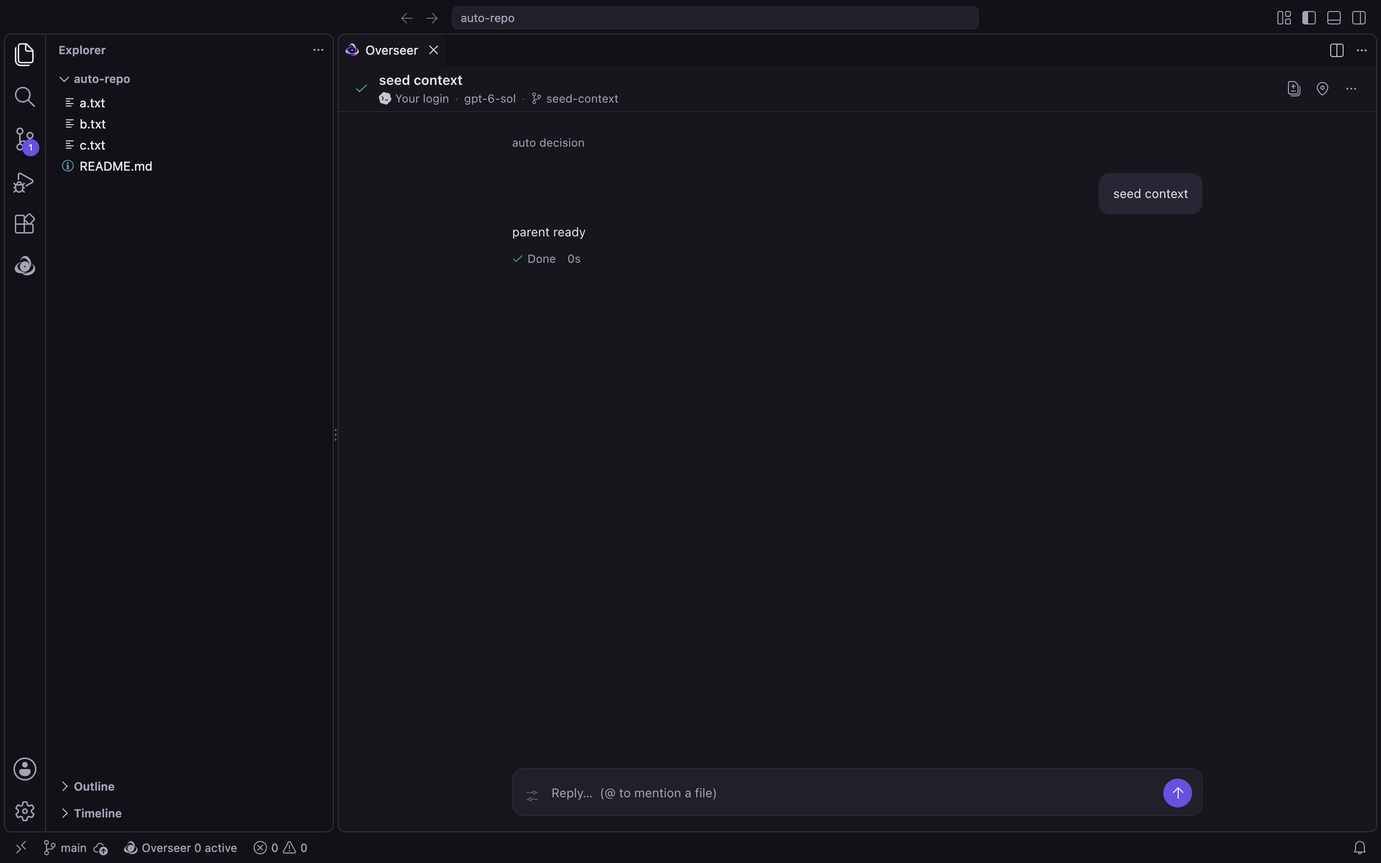
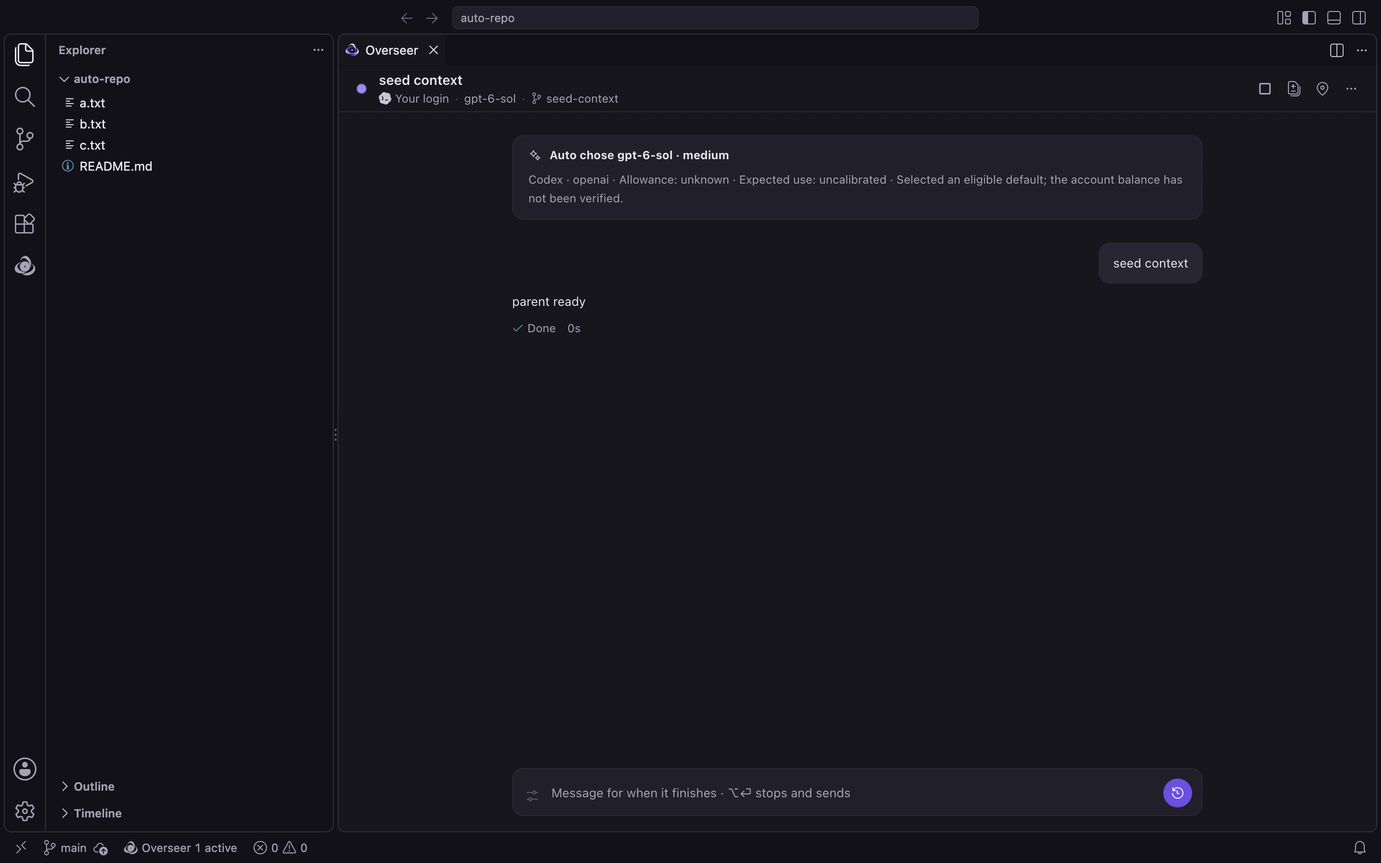
feat(auto): explain route choices in packaged chat

diff --git a/test/ui/scenario-auto-root.js b/test/ui/scenario-auto-root.js
@@ -15,16 +15,18 @@ const { Session, makeRepo, latestVsix, delay, repoRoot } = require('./harness');
   const sys = path.join(s.root, 'desktop-home');
   const next = path.join(s.root, 'next-login');
   const trace = path.join(s.root, 'app-server-trace.txt');
+  const quota = path.join(s.root, 'quota-mode.txt');
   fs.mkdirSync(sys, { recursive: true });
   fs.writeFileSync(next, 'auto-fixture:pro');
+  fs.writeFileSync(quota, 'unknown');
   cp.execFileSync(cli, ['login'], { env: { ...process.env, OVERSEER_TEST_SYSTEM_HOME: sys, FIXTURE_LOGIN_ACCOUNT_FILE: next } });
   try {
     const repo = makeRepo(path.join(s.root, 'auto-repo'), { dirty: false });
     s.settings({ 'workbench.colorTheme': 'Overseer Dark' });
     s.install(latestVsix());
     s.launch(repo, { OVERSEER_CODEX_PATH: app, OVERSEER_CLAUDE_PATH: '/nonexistent/claude', OVERSEER_OPENCODE_PATH: '/nonexistent/opencode',
-      OVERSEER_TEST_SYSTEM_HOME: sys, FIXTURE_MODE: 'managed-models', FIXTURE_TRACE_FILE: trace,
-      OVERSEER_HARNESS_ENV_PASSTHROUGH: 'FIXTURE_MODE,FIXTURE_TRACE_FILE,OVERSEER_TEST_SYSTEM_HOME' });
+      OVERSEER_TEST_SYSTEM_HOME: sys, FIXTURE_MODE: 'managed-models', FIXTURE_TRACE_FILE: trace, FIXTURE_QUOTA_MODE_FILE: quota,
+      OVERSEER_HARNESS_ENV_PASSTHROUGH: 'FIXTURE_MODE,FIXTURE_TRACE_FILE,FIXTURE_QUOTA_MODE_FILE,OVERSEER_TEST_SYSTEM_HOME' });
     let cdp = await s.connect();
     await cdp.waitFor(`[...document.querySelectorAll('.statusbar-item')].some(e => /Overseer \\d+ active/.test(e.textContent))`, 60000, 'status bar');
     check('Auto gate is off before an explicit UI choice', s.ctl('auto.mode.get').enabled === false);
@@ -59,6 +61,10 @@ const { Session, makeRepo, latestVsix, delay, repoRoot } = require('./harness');
       { run: root.id, status: root.status, model: root.model, effort: root.effort, selected, output });
     const shown = await dash.waitFor(`document.body.dataset.mode === 'chat' && document.getElementById('title')?.textContent === 'seed context'`, 20000).then(() => true, () => false);
     check('the selected Auto run opens in the same chat surface as a manual run', shown);
+    const decisionCard = await dash.eval(`document.querySelector('.auto-decision')?.textContent || ''`);
+    check('the chat explains the selected model, effort, allowance, and expected-use uncertainty',
+      /gpt-6-sol/.test(decisionCard) && /medium/.test(decisionCard) && /Allowance: unknown/.test(decisionCard) && /Expected use: uncalibrated/.test(decisionCard),
+      decisionCard);
     await s.screenshot('auto-root-chat');
     // Leaving a webview textarea focused can swallow the command-palette shortcut.
     const statusPoint = await cdp.evalWorkbench(`(() => { const r = document.querySelector('.part.statusbar').getBoundingClientRect(); return { x: r.left + r.width / 2, y: r.top + r.height / 2 }; })()`);
@@ -92,10 +98,22 @@ const { Session, makeRepo, latestVsix, delay, repoRoot } = require('./harness');
       childModels.includes('gpt-6-sol/medium') && childModels.includes('gpt-6-astra/high') &&
       /browser result: parent context found/.test(parentOutput) && /continued with browser result/.test(parentOutput),
       { parent: parent.id, status: parent.status, children: children.map(r => ({ id: r.id, model: r.model, effort: r.effort, status: r.status })), output: parentOutput });
+    await dash.waitFor(`document.querySelectorAll('.auto-decision').length >= 3`, 10000);
+    const childDecisionCards = await dash.eval(`[...document.querySelectorAll('.auto-decision')].map(e => e.textContent)`);
+    check('the parent chat records both child route choices and their uncertainty',
+      childDecisionCards.some(t => /gpt-6-sol/.test(t) && /medium/.test(t) && /Expected use: uncalibrated/.test(t)) &&
+      childDecisionCards.some(t => /gpt-6-astra/.test(t) && /high/.test(t) && /Expected use: uncalibrated/.test(t)), childDecisionCards);
+    const excludedDetail = await dash.eval(`[...document.querySelectorAll('.auto-decision')].find(e => /gpt-6-astra/.test(e.textContent))?.querySelector('details')?.textContent || ''`);
+    check('the diagnosis explanation identifies why another route was excluded',
+      /gpt-6-sol/.test(excludedDetail) && /capability/i.test(excludedDetail), excludedDetail);
     await s.screenshot('auto-delegation');
     await cdp.command('Developer: Reload Window'); await delay(6000);
     cdp = await s.connect(); s.cdp = cdp;
     dash = await s.editorView();
+    await dash.waitFor(`document.querySelectorAll('.auto-decision').length >= ${childDecisionCards.length}`, 20000);
+    const reloadedCards = await dash.eval(`[...document.querySelectorAll('.auto-decision')].map(e => e.textContent)`);
+    check('window reload restores the same child decision history', reloadedCards.length === childDecisionCards.length &&
+      reloadedCards.every((text, i) => text === childDecisionCards[i]), reloadedCards);
     const after = s.ctl('state').runs.filter(r => !r.parent_run_id && r.title === 'seed context');
     await cdp.command('Overseer: New Agent');
     await dash.waitFor(`document.body.dataset.mode === 'composer' && !document.querySelector('[data-chip="repo"]').textContent.includes('Loading')`, 20000);
@@ -103,6 +121,18 @@ const { Session, makeRepo, latestVsix, delay, repoRoot } = require('./harness');
     check('window reload keeps the original Auto run and remembers Auto as the next choice', after.length === 1 && after[0].id === root.id && /Auto routing/.test(remembered),
       { runs: after.map(r => r.id), remembered });
     await s.screenshot('auto-remembered');
+    fs.writeFileSync(quota, 'exhausted');
+    const exhaustedPoint = await s.webviewPoint(dash, '#task');
+    await cdp.click(exhaustedPoint.x, exhaustedPoint.y); await cdp.type('quota exhausted fixture');
+    await dash.waitFor(`!document.getElementById('start').disabled`, 5000);
+    await cdp.key('Enter');
+    await dash.waitFor(`[...document.querySelectorAll('.composer-note')].some(e => e.textContent.includes('allowance is exhausted'))`, 20000);
+    const paused = await dash.eval(`[...document.querySelectorAll('.composer-note')].map(e => e.textContent).find(t => t.includes('allowance is exhausted')) || ''`);
+    const launchedOnExhaustion = s.ctl('state').runs.filter(r => !r.parent_run_id && r.title === 'quota exhausted fixture');
+    check('the packaged Auto composer explains known exhaustion and launches no root',
+      /allowance is exhausted/.test(paused) && launchedOnExhaustion.length === 0,
+      { message: paused, launched: launchedOnExhaustion.map(r => r.id) });
+    await s.screenshot('auto-exhausted');
   } catch (error) {
     s.note('ERROR ' + (error.stack || error.message)); result.error = error.message;
     try { await s.screenshot('error'); } catch {}

diff --git a/extension/media/conversation.js b/extension/media/conversation.js
@@ -270,12 +270,64 @@
       if (this.active) this.list.after(this.working);
     }
 
+    autoDecision(p, ev) {
+      const decision = p.decision || {};
+      const route = p.selected_route || (p.selection_input?.routes || []).find(r => r.id === decision.selected);
+      const card = el('div', 'auto-decision');
+      const head = el('div', 'auto-decision-head');
+      head.append(ui.icon(route ? 'sparkle' : 'warning', 'sm'),
+        el('strong', null, route ? `Auto chose ${route.model || 'a model'} · ${route.effort || 'default effort'}` : 'Auto paused'));
+      card.append(head);
+      const details = [];
+      if (route) {
+        const harness = { 'codex-app': 'Codex', claude: 'Claude Code', opencode: 'OpenCode' }[route.harness] || route.harness;
+        details.push(`${harness || 'Agent'}${route.provider ? ` · ${route.provider}` : ''}`);
+        const quota = { observed_non_exhausted: 'reported available', not_applicable: 'not applicable for this local route', exhausted: 'exhausted', unknown: 'unknown' }[route.quota] || 'unknown';
+        details.push(`Allowance: ${quota}`);
+        const fit = { fits: 'bounded estimate fits', unaffordable: 'estimated draw exceeds allowance', unknown: 'uncalibrated' }[route.fit] || 'uncalibrated';
+        details.push(`Expected use: ${fit}`);
+      }
+      const reasons = {
+        cold_start_allowance_unknown: 'Selected an eligible default; the account balance has not been verified.',
+        cold_start_consumption_unknown: 'Selected an eligible default; expected subscription use is not yet calibrated.',
+        eligible_task_suitable_default: 'Selected for the work unit’s capability and account constraints.',
+        no_eligible_route: 'No route met the current account, capability, and availability constraints.'
+      };
+      if (reasons[decision.reason]) details.push(reasons[decision.reason]);
+      card.append(el('div', 'auto-decision-detail', details.join(' · ')));
+      const excluded = Array.isArray(decision.exclusions) ? decision.exclusions : [];
+      if (excluded.length) {
+        const why = {
+          pinned_elsewhere: 'a different route was pinned', account_not_allowed: 'account not allowed',
+          route_unavailable: 'service unavailable', unresolved_quota_pool_identity: 'shared account allowance could not be verified',
+          quota_exhausted: 'account allowance exhausted', pool_in_flight_unknown_draw: 'account already has an active Auto unit',
+          estimated_draw_exceeds_allowance: 'expected use exceeds available allowance',
+          insufficient_capability: 'below the required capability', missing_tool: 'required tool unavailable',
+          context_unavailable: 'required context unavailable', approvals_unsupported: 'required approvals unsupported',
+          sandbox_incompatible: 'requested permissions unsupported'
+        };
+        const alternatives = el('details', 'auto-decision-alternatives');
+        alternatives.append(el('summary', null, `${excluded.length} alternative${excluded.length === 1 ? '' : 's'} excluded`));
+        const list = el('ul');
+        for (const item of excluded.slice(0, 8)) {
+          const candidate = (p.selection_input?.routes || []).find(r => r.id === item.route_id);
+          const label = candidate?.model ? `${candidate.model}${candidate.effort ? ` · ${candidate.effort}` : ''}` : 'Another route';
+          list.append(el('li', null, `${label}: ${why[item.reason] || 'not eligible for this work unit'}`));
+        }
+        if (excluded.length > 8) list.append(el('li', null, `${excluded.length - 8} more alternatives`));
+        alternatives.append(list);
+        card.append(alternatives);
+      }
+      this.container(ev).append(card);
+    }
+
     add(ev) {
       if (this.seen.has(ev.seq)) return;
       this.seen.add(ev.seq);
       const p = ev.payload || {};
       const child = ev.run_id && ev.run_id !== this.rootId;
       switch (ev.kind) {
+        case 'auto_decision': this.autoDecision(p, ev); break;
         case 'turn_started': if (!child) { this.stopping = false; this.newTurn(p.turn || { n: this.turns.length + 1, prompt: '' }, false, ev); this.active = true; this.updateWorking('Working…'); } break;
         case 'interrupt_requested': if (!child) this.stopping = true; break;
         case 'output': {
@@ -467,7 +519,7 @@
       card.el.replaceChildren(...kids);
     }
   }
-  Conversation.KNOWN = new Set(['turn_started', 'output', 'tool', 'tool_result', 'file_activity', 'permission', 'permission_answered', 'error', 'child', 'child_reparented', 'turn_done', 'retention', 'raw_unparsed']);
+  Conversation.KNOWN = new Set(['auto_decision', 'turn_started', 'output', 'tool', 'tool_result', 'file_activity', 'permission', 'permission_answered', 'error', 'child', 'child_reparented', 'turn_done', 'retention', 'raw_unparsed']);
   Conversation.describe = describe;
 
   window.OverseerConversation = Conversation;

diff --git a/test/ui/cdp.js b/test/ui/cdp.js
@@ -159,7 +159,9 @@ class Cdp {
     for (let attempt = 0; ; attempt++) {
       await this.focusWorkbench();
       await this.key('p', { meta: true, shift: true });
-      try { await this.waitFor('!!document.querySelector(".quick-input-widget:not([style*=\\"display: none\\"]) input")', 5000, 'command palette'); break; }
+      try { await this.waitFor(`(() => { const input = document.querySelector('.quick-input-widget input');
+        return !!input && input === document.activeElement && input.getClientRects().length > 0;
+      })()`, 5000, 'focused command palette'); break; }
       catch (error) {
         if (attempt >= 1) throw error;
         // Keyboard focus can stay inside a webview's own frame; click a neutral workbench spot.
@@ -168,8 +170,18 @@ class Cdp {
       }
     }
     await this.type(title);
-    await delay(400);
-    await this.key('Enter');
+    // The palette can still show a previous search while it computes the new
+    // results. Wait for and choose the requested row, rather than pressing
+    // Enter on whichever stale item happens to be selected first.
+    const name = title.includes(':') ? title.slice(title.indexOf(':') + 1).trim() : title;
+    const row = await this.waitFor(`(() => { const w = document.querySelector('.quick-input-widget');
+      const item = [...(w?.querySelectorAll('.monaco-list-row') || [])].find(r =>
+        (r.getAttribute('aria-label') || r.textContent || '').includes(${JSON.stringify(name)}));
+      if (!item) return null;
+      const b = item.getBoundingClientRect();
+      return b.width && b.height ? { x: b.left + b.width / 2, y: b.top + b.height / 2 } : null;
+    })()`, 5000, `command result ${title}`);
+    await this.click(row.x, row.y);
     await delay(300);
   }
 

diff --git a/extension/media/chat.css b/extension/media/chat.css
@@ -152,6 +152,13 @@ pre.code.error { color: var(--ov-failed); }
 .error-head { display: flex; align-items: center; gap: 6px; color: var(--ov-failed); }
 .error-block .text { white-space: pre-wrap; overflow-wrap: anywhere; color: var(--ov-text); }
 .sys { display: flex; align-items: center; gap: 6px; font-size: var(--ov-font-sm); color: var(--ov-muted); }
+.auto-decision { display: flex; flex-direction: column; gap: var(--ov-space-2); padding: var(--ov-space-3) var(--ov-space-4); border: 1px solid var(--ov-border); border-radius: var(--ov-radius-card); background: var(--ov-raised); font-size: var(--ov-font-sm); }
+.auto-decision-head { display: flex; align-items: center; gap: var(--ov-space-2); color: var(--ov-text); }
+.auto-decision-head .codicon { color: var(--ov-icon); }
+.auto-decision-detail { color: var(--ov-muted); line-height: var(--ov-line-body); overflow-wrap: anywhere; }
+.auto-decision-alternatives { color: var(--ov-muted); }
+.auto-decision-alternatives > summary { cursor: pointer; }
+.auto-decision-alternatives ul { margin: var(--ov-space-2) 0 0; padding-left: var(--ov-space-4); line-height: var(--ov-line-body); }
 .status-line.status-failed, .status-line.status-disconnected { color: var(--ov-failed); }
 .working { display: flex; align-items: center; gap: var(--ov-space-2); margin-top: var(--ov-space-3); color: var(--ov-muted); font-size: var(--ov-font-sm); min-width: 0; }
 .working-label { overflow: hidden; text-overflow: ellipsis; white-space: nowrap; }

diff --git a/test/ui/scenario-composer.js b/test/ui/scenario-composer.js
@@ -138,7 +138,6 @@ const { Session, makeRepo, latestVsix, delay, repoRoot } = require('./harness');
     await cdp.waitFor(`[...document.querySelectorAll('.statusbar-item')].some(e => /Overseer/.test(e.textContent))`, 60000, 'status bar');
     await cdp.command('Overseer: Open Overseer View');
     dash = await s.editorView();
-    await cdp.command('Overseer: New Agent'); await delay(800);
     const untrusted = await dash.waitFor(`(() => { const n = document.querySelector('.view-composer .composer-note'); return n && /Trust this workspace/.test(n.textContent) && { note: n.textContent, fix: n.querySelector('.fix')?.textContent, disabled: document.getElementById('start').disabled }; })()`, 20000).catch(() => null);
     check('an untrusted workspace is explained inline with its fix (Trust) and nothing can start', untrusted && untrusted.fix === 'Trust' && untrusted.disabled, untrusted);
     await s.screenshot('untrusted');

diff --git a/docs/verification/auto-mode/README.md b/docs/verification/auto-mode/README.md
@@ -10,6 +10,8 @@ Main advanced during the packaged Auto UI check to `b3ea1e7`. Its ledger now ver
 
 Packaged Auto root and nested-claim check (2026-09-27): the new `test/ui/scenario-auto-root.js` starts with the Auto gate off in a disposable VS Code profile. Choosing Auto commits one root decision and runs the daemon-selected Sol/medium fixture turn; the chat opens and a window reload retains the one root and remembered Auto choice. A second root's synthetic app-server then invokes its injected delegation tool, receives a browser-labelled Sol/medium child's text, and assigns an Astra/high diagnosis child while both routes are healthy. The first packaged attempt failed with `pool_in_flight_unknown_draw`: the root's own active claim blocked its child. A red-first storage test reproduced that admission gap. The selector and atomic admission now ignore only the same running root's active, same-account-generation claim; a second child, another parent, changed generation, or uncertain root remains blocked. The packaged fixture passed after rebuilding the VSIX. This is a synthetic browser-labelled report, not a real browser artifact, proof of model judgment, measured subscription use, or full AUTO-AC-25/31/35/40. Those criteria remain open; the verified count remains 11/40.
 
+Packaged decision-explanation follow-up (2026-09-27): the same isolated VS Code scenario first failed because its chat reduced `auto_decision` to a generic line. The chat now shows the selected harness/provider/model/effort, reported or unknown allowance state, expected-use uncertainty, and an expandable reason for excluded alternatives. With a fixture account whose quota window is absent, the packaged flow still chooses Sol/medium and explicitly says allowance is unknown; the browser-labelled Sol child and Astra diagnosis each retain their decision card and exclusion reason after a window reload. Switching the fixture account to explicit exhaustion then leaves the composer in place with a readable pause reason and creates no root. The test's command-palette helper was also tightened after intermittent focus/result races; it now chooses the requested visible command row. This establishes UI explanation and durable fixture history, not source age, actual local consumption shown in the chat, a real browser artifact, or full AUTO-AC-25.
+
 Fresh main check requested by the owner (2026-09-27): the first `git fetch origin main` and independent remote-head read returned `b3ea1e7`, then published main advanced during validation to `81274ac`; it was merged into this branch as `150bca2`. The two new commits update only the main ledger, tracker, and README: AC-185 through AC-189 are partial against Gate S draft pull request #14, with no Gate S runtime code merged into main. AC-186 explicitly leaves its route-picking independence check to this branch; AC-188 keeps a redirect's existing route unless the owner changes it; AC-189 adds actual check-ins whose model work must eventually be metered under the shared admission boundary. The Auto RFC already states all three boundaries, plus separate Auto-routing and Overseer-authority switches, one daemon admission/metering authority across manual, Overseer, Swarm and Auto work, durable parent-result acknowledgement, and reuse of run/work-unit identity. This main refresh changes neither the provider-neutral ranking policy nor the local-only telemetry plan, and verifies no additional Auto criterion. The packaged nested-child fix above is a scoped claim-sharing step, not proof of shared manual/Swarm admission or verified subscription capacity. The complete serial Rust workspace suite passed before this documentation-only merge (141 daemon unit, 170 protocol, all TUI groups); after the merge, the Auto ledger audit remained 11/40 with one conditional deferral, 621 links passed, extension units passed 3/3, and the source check passed. The separate local `main` checkout is behind its published remote and contains unrelated untracked Swarm and brand drafts; it was inspected read-only.
 
 AUTO-AC-10 source-order follow-up (2026-09-27): revision `4699657` adds two red-first store regressions. A backward wall-clock step had allowed an older account fingerprint to replace the current identity and clear its evidence; the store now refuses the older observation before invalidating anything. A model catalog captured earlier had also been able to overwrite a newer catalog; the store now retains the later capture, including when the older write arrives last. Both focused tests failed on the old behavior, passed after the fixes, and the full serial Rust workspace suite passed (141 daemon unit tests, 170 protocol tests, and all TUI groups). Test-generated TUI evidence was restored. AUTO-AC-10 remains **in progress**: supported provider responses here do not provide a proven source-cache timestamp, and broader source-order, clock, and collector-timeout cases still need end-to-end evidence. No subscription draw or Auto completion claim follows from these storage guards.
@@ -104,7 +106,7 @@ Between-turn parent refresh (2026-09-27): a red-first fixture expired a Codex pa
 | AUTO-AC-22 — Uncertain effects stop | in progress | A controlled live OpenCode child received HTTP 503 but emitted no prompt classified error while retrying. An earlier test explicitly interrupted it; the current restart test lets its durable wall-time budget stop it. Repeating the same work-unit ID returned the same paused child without a second model request to the healthy endpoint. Revision `ff7480b` also refuses manual handoff after a fixture writes a file and then reports HTTP 503, or when a declared external action remains unresolved. Lost connection after an external side effect, pending approval, and unconfirmed supervisor stop remain. |
 | AUTO-AC-23 — User intent survives | in progress | An interrupted managed child replays as paused and does not silently launch an alternate. Revision `97c0a95` proves disabling Auto refuses a new unit even when its metadata collection was already underway, without admitting a decision or child; an already accepted child finishes and replays under its original identity. An unpinned, preferred Claude child with an ordinary task failure now stays failed; replay pauses with the same child while an eligible Codex route is available, and Codex runs only for a separate newly requested unit. Denial, explicit continuation-disabled behavior, and complete sandbox/provider-sharing handoff constraints remain. |
 | AUTO-AC-24 — Durable recovery | in progress | A managed child reattaches to its existing supervisor after daemon restart; a cross-harness Auto work-unit request after restart returns the same Claude child. A failed pre-turn Claude child replays as paused with recovery actions and no second child. A result-notice write failure now rolls back child settlement; restart uses the persisted turn outcome to publish one parent notice without relaunch. A selected decision, intent, and unknown-draw pool claim commit together before Git preparation. A controlled failed worktree add and a crash after a successful Git worktree add both replay as effects-uncertain without another Git attempt or child; the successful-effect case reports its journaled branch, path, and snapshot. Startup releases the unknown-draw allowance claim for any no-child intent, while retaining its uncertain Git plan; a running child keeps the claim across restart and releases it only on terminal settlement. A pre-upgrade active Auto child without a claim receives a conservative unresolved claim at migration and blocks new Auto admission until terminal settlement. Two clients read one pending identity and one decision while the worker is alive; after a crash with no child it pauses rather than repeating Git. Child/workspace rows and the intent's `child_created` phase are one transaction, tested with an injected write failure before any model turn. A separate Auto test kills the daemon while its selected child is running, with the original client having read no response; two new protocol clients recover that child with one process generation, model turn, decision, and parent result notice. An injected post-commit, pre-start notice failure now settles the generation-zero child as failed and releases its allowance; same-process and post-restart replay retain its handle and pause without launching it. A separate unit can use that profile before restart. A handoff notice failure after its linked run commits, followed by restart, now replays the same generation-zero run as `launch_uncertain` without a model turn. Git-resource ownership and reconciliation, measured reservation recovery, mid-handoff crash, and actual UI reconnect remain. The [launch-boundary design](launch-boundary-design.md) records the remaining phases. |
-| AUTO-AC-25 — Simple Auto UI | in progress | The packaged Auto-root scenario verifies a default-off gate, explicit Auto selection, daemon-selected root model/effort, common chat, a synthetic parent/browser-labelled child/result/diagnosis sequence, and one remembered root after window reload; the existing composer scenario covers the optional harness preference and manual path. A real browser artifact, selected-route explanation and local usage in the UI, unknown/exhausted states, and full reconnect/child-history behavior remain. The synthetic child does not satisfy the RFC's real browser acceptance example. |
+| AUTO-AC-25 — Simple Auto UI | in progress | The packaged Auto-root scenario verifies a default-off gate, explicit Auto selection, daemon-selected root model/effort, common chat, a synthetic parent/browser-labelled child/result/diagnosis sequence, and one remembered root after window reload. Decision cards explain the chosen route, model/effort, unknown allowance and uncalibrated expected use, and why Sol is excluded from the frontier diagnosis; all three cards survive reload. A fresh explicit exhaustion blocks a further root with a readable composer message. The existing composer scenario covers optional harness preference and manual choice. A real browser artifact, actual per-work subscription consumption or local usage display, source age, richer switch/context history, and full reconnect behavior remain. The synthetic child does not satisfy the RFC's real browser acceptance example. |
 | AUTO-AC-26 — Credential/privacy boundary | in progress | Claude Auto auth stores only a domain-separated identity fingerprint; controlled parent/child events exclude the fixture email, and API-key auth is ineligible. Full logs/database inspection, redaction fixtures, bounded retention, linked-account change invalidation, and all forbidden-action checks remain. |
 | AUTO-AC-27 — XCB reuse or fork gate | verified | Pinned XCB 0.8.10 at `9b3590241f1faf15d669ad46bfde65467fda14d2` passed full core/runtime suites with temporary Rust 1.97.1, and a 3-case synthetic Overseer contract test exposed model-scope, no-reset block, and account-denial mismatches. The [assessment](xcb-assessment.md) records MIT notice/toolchain, required patches, OpenCode and estimation gaps, custody bridge, and rollback. Decision: document these concrete blockers and retain Overseer's native collectors; no XCB runtime/fork is adopted or claimed. |
 | AUTO-AC-28 — End-to-end support matrix | in progress | Controlled Codex-to-Claude and Claude-to-Codex daemon children complete; a fixture Opus-family quota block selects Codex while Sonnet remains separately observed. Installed OpenCode 1.15.13 now completes an `auto.dispatch`-selected managed child against one of two controlled local provider addresses, with the other refused. Tiny live authenticated Auto tasks, a real local failing-model-turn fallback, injected outage/quota scenarios across all claimed routes, macOS release evidence, and Linux coverage remain. Controlled local mocks do not establish live account support or true local inference. |

diff --git a/docs/rfcs/auto-mode.md b/docs/rfcs/auto-mode.md
@@ -206,6 +206,8 @@ Implement collection and selection behind a small daemon routing interface after
 
 New Task offers Auto beside manual selection. Preview the selected harness/provider/account/model/effort and the next work unit, with a short reason such as “Browser check → Sol, medium: suitable tools and lower expected allowance use.” Show parent/child results and escalation reasons, as well as outage reasons where relevant. Show unknown or stale data explicitly. The task history records each switch, trigger, source age, and context limitation. The explanation view shows rejected alternatives, expected versus observed allowance consumption, uncertainty, and the reason for the model/effort choice. It offers a harness preference or manual override, not a routing-policy editor. Monitoring and bounded decisions continue when VS Code closes; UI disconnection must not duplicate execution.
 
+The packaged VS Code chat now renders each durable Auto decision with its selected harness/provider/model/effort, allowance state, expected-use uncertainty, and expandable exclusion reasons. A controlled unknown-allowance root and its two synthetic child decisions retain those cards after a reload; a fresh exhausted account pauses a later composer request without a new root. This verifies explanation and history rendering for that fixture, not an actual browser run, provider-measured per-work consumption, source-age display, or the full AUTO-AC-25 flow.
+
 The initial Auto choice has a separate daemon-owned root work-unit identity: `auto.root.preview` inspects repository-scoped evidence before creating a workspace, and `auto.start` commits the selected decision, root run, planned workspace, and pool claim before a model turn. A controlled Codex fixture verifies first-turn selection and stable replay; selected Claude and OpenCode roots now record a supervisor identity before process spawn. A root that crashes after a Git worktree effect exposes its planned branch/path and pauses under the original identity without retrying Git; the plan is not proof that the effect occurred. A confirmed OS refusal to spawn the root supervisor pauses the run and releases its unspent pool claim even when the recorded process generation has advanced; a later status-write failure keeps the claim while the spawned supervisor is reconciled. The [root launch design](../verification/auto-mode/root-launch-design.md) still requires shared admission with manual/Overseer/Swarm work, all crash and handoff phases, and the packaged VS Code entry point. Initial selection is implemented in the daemon, but AUTO-AC-17/24/25 remain open until those Verify clauses pass.
 
 ### Integration check against main (2026-09-26)
